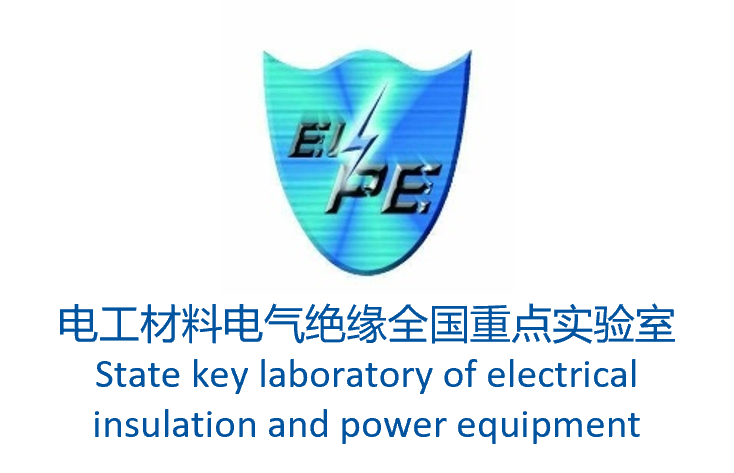
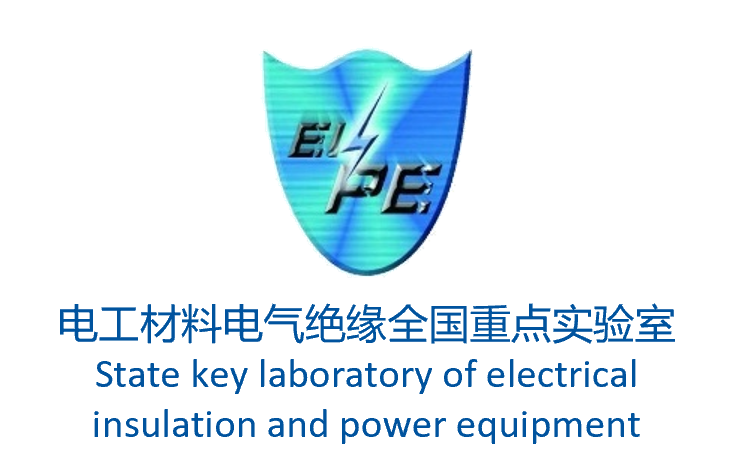
new

diff --git a/contents/research.md b/contents/research.md
@@ -1,5 +1,5 @@
 ### Freshman Year
-<img src="../../static/assets/img/electriclab.png" width="30%" alt="Electric Lab">
+<img src="../../static/assets/img/electriclab.png" width="20%" alt="Electric Lab">
 
 **Research Training**: During my freshman year, I conducted research at **the State Key Laboratory of Electrical Insulation and Power Equipment**, where I prepared pure epoxy resin and measured space charge using the pulsed electro-acoustic method. Additionally, I investigated the influence of biaxially oriented polypropylene film processing factors on energy storage characteristics.
 
